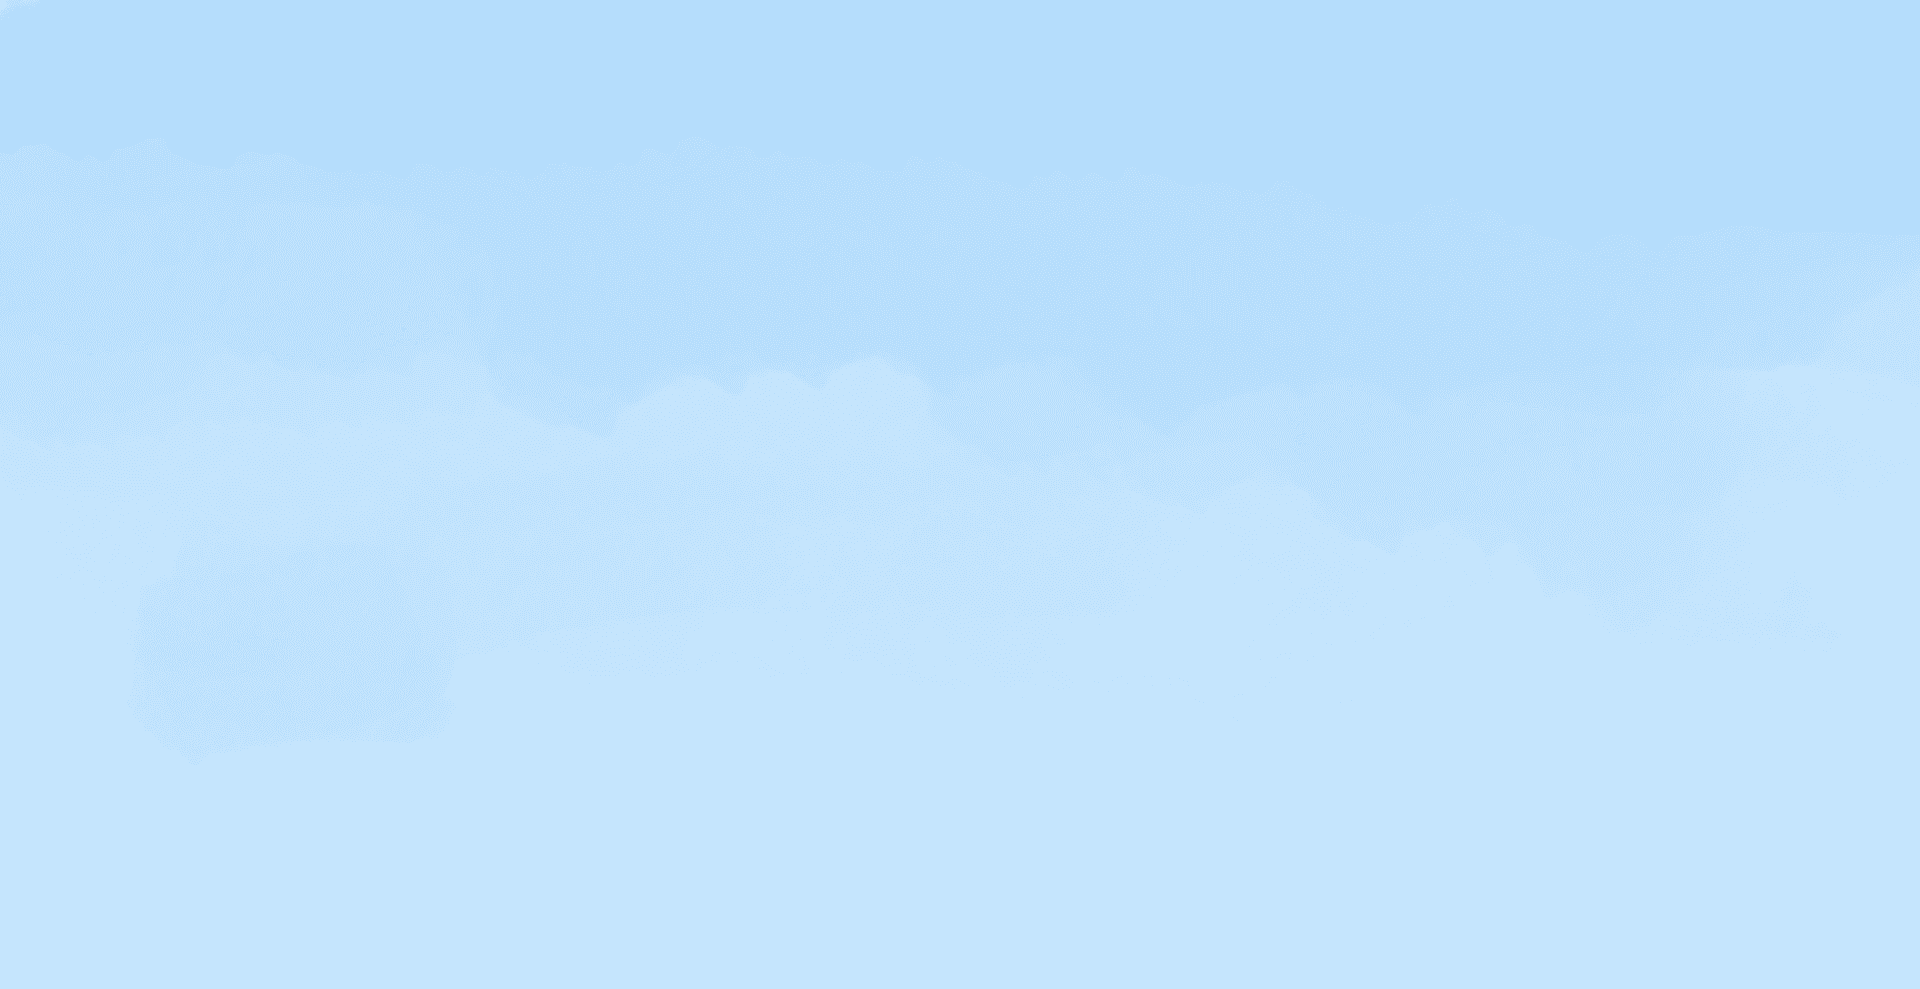
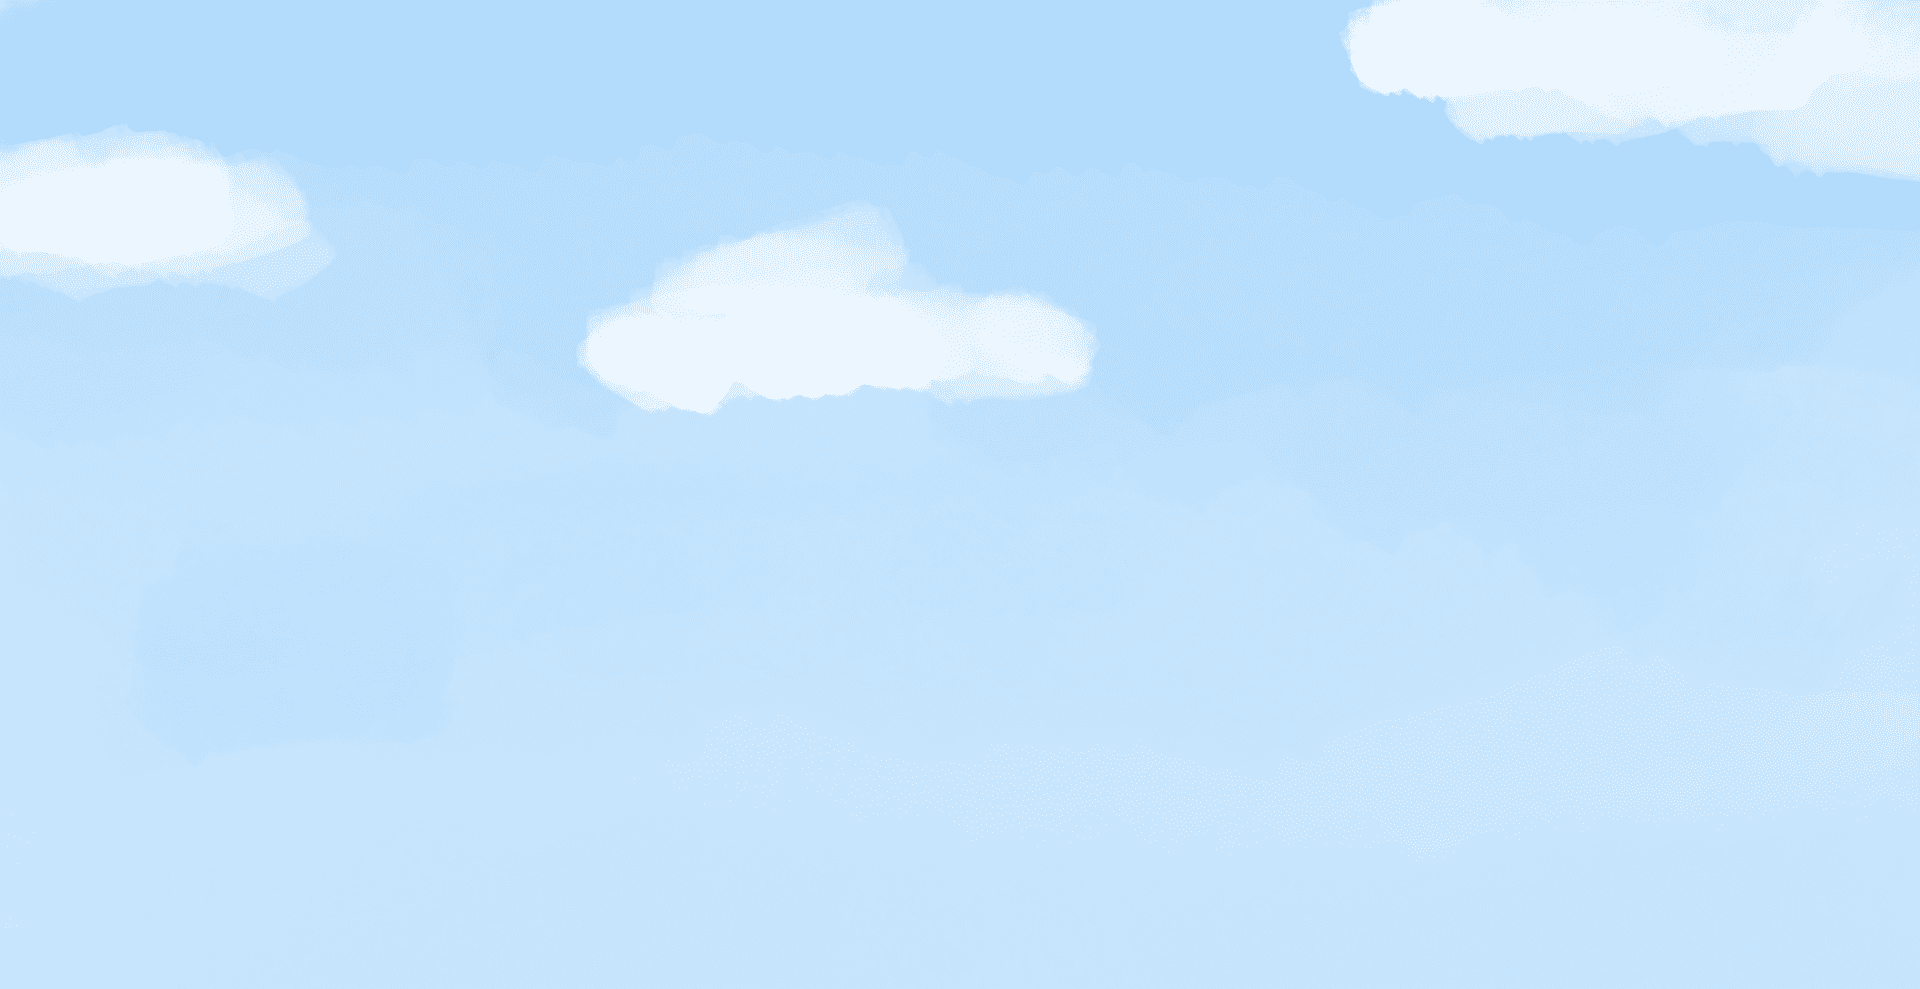
added more background

diff --git a/src/game/level/index.ts b/src/game/level/index.ts
@@ -2,6 +2,7 @@ import * as MATTER from "matter-js";
 import * as PIXI from "pixi.js";
 import Player from "../player";
 import PlatformManager from "../platformManager/index.js";
+import config from "../../../gameConfig.js";
 
 export default class Level {
   _physicEngine: MATTER.Engine;
@@ -9,26 +10,67 @@ export default class Level {
   _player: Player;
   _platformManager: PlatformManager;
   _levelContainer: PIXI.Container = new PIXI.Container();
+  _backgroundContainer: PIXI.Container = new PIXI.Container();
+  _propsContainer: PIXI.Container = new PIXI.Container();
+  _gameContainer: PIXI.Container = new PIXI.Container();
+  _propsList: Array<PIXI.Sprite> = [];
 
   constructor() {
     this.initLevel();
   }
 
   async initLevel() {
-    const texture = await PIXI.Assets.load("backdrop");
-    const sprite = new PIXI.Sprite(texture);
+    this._backgroundContainer.zIndex = 1;
+    this._propsContainer.zIndex = 2;
+    this._gameContainer.zIndex = 3;
+    this._levelContainer.addChild(
+      this._backgroundContainer,
+      this._propsContainer,
+      this._gameContainer
+    );
 
-    this._levelContainer.addChild(sprite);
+    this.setBackground();
+    this.setProps();
 
     this._physicEngine = MATTER.Engine.create();
     this._physicEngine.gravity.scale = 0.003;
     this.initMouseListener();
     this._platformManager = new PlatformManager(
       this._physicEngine,
-      this._levelContainer
+      this._gameContainer
     );
 
-    this._player = new Player(this._physicEngine.world, this._levelContainer);
+    this._player = new Player(this._physicEngine.world, this._gameContainer);
+  }
+
+  async setBackground() {
+    const texture = await PIXI.Assets.load("backdrop");
+    const skySprite = new PIXI.Sprite(texture);
+
+    const seaTextures = await PIXI.Assets.load("seaProp");
+    const seaSprite = new PIXI.AnimatedSprite(
+      seaTextures.animations["glitter"]
+    );
+    seaSprite.anchor.set(0.5, 1);
+    seaSprite.position.set(config.WIDTH / 2, config.HEIGHT * 1.2);
+    seaSprite.animationSpeed = 0.1;
+    seaSprite.play();
+    this._backgroundContainer.addChild(skySprite, seaSprite);
+  }
+
+  async setProps() {
+    const texture = await PIXI.Assets.load("props1");
+    const sprite = new PIXI.Sprite(texture);
+    sprite.x = config.WIDTH / 3;
+    sprite.zIndex = -1;
+    this._propsList.push(sprite);
+    this._propsContainer.addChild(sprite);
+  }
+
+  updateProps() {
+    this._propsList.forEach((prop) => {
+      prop.position.x -= 0.01 * this._platformManager.getGamespeed();
+    });
   }
 
   getLevelContainer(): PIXI.Container {
@@ -83,6 +125,7 @@ export default class Level {
       this.checkForCollisionWithDiamond();
       this.checkForCollisionWithPlatform();
       this._platformManager.update();
+      this.updateProps();
     }
   }
 
